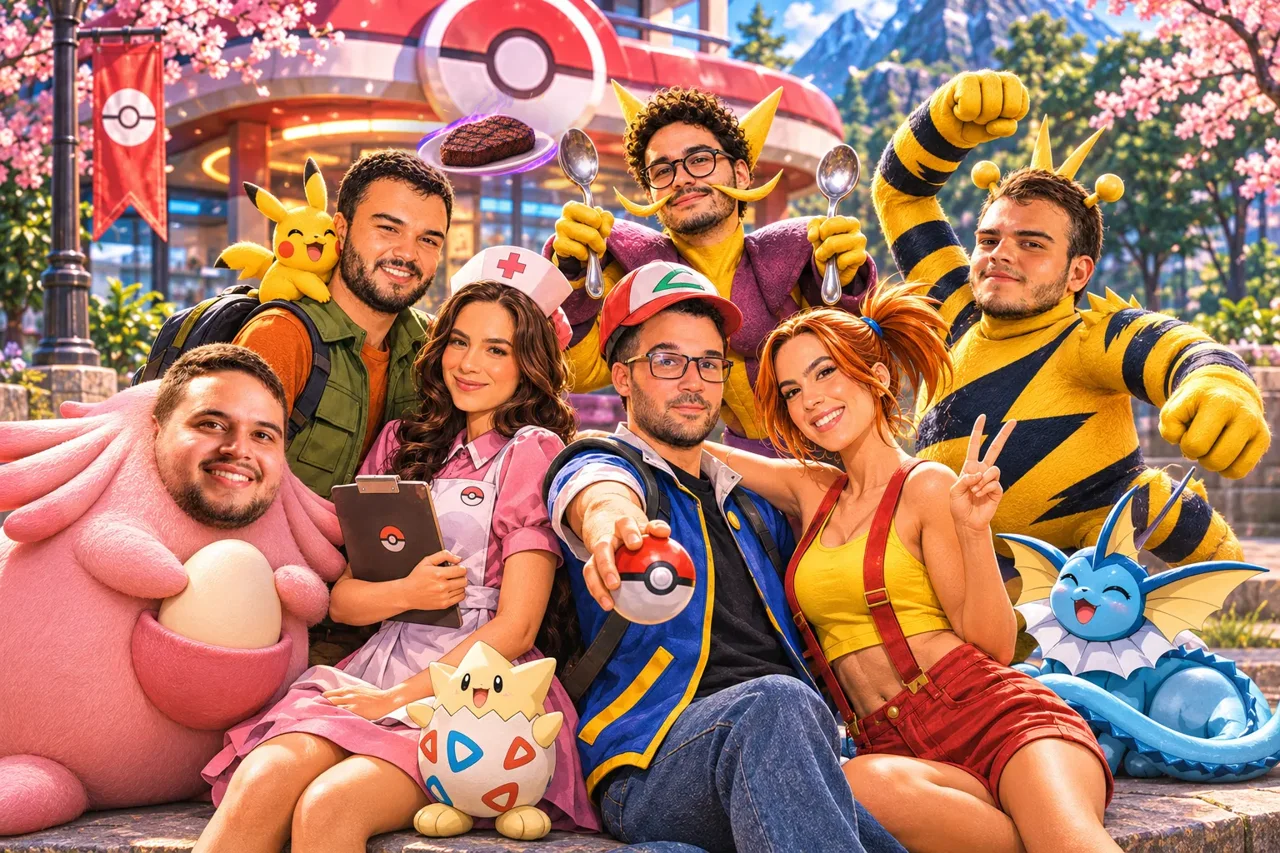
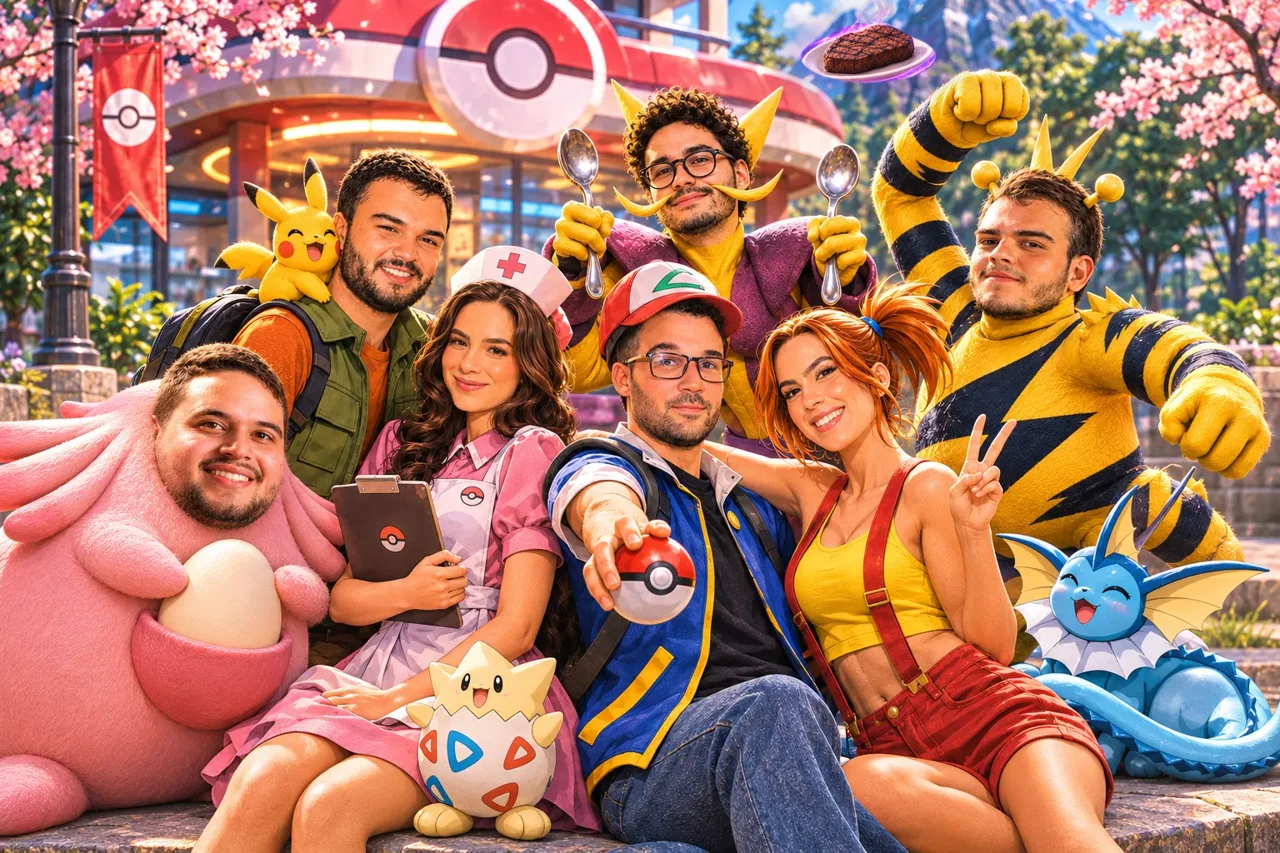
Capa dos primos: prato de bife no lugar que o Felipe marcou

Changed region(s): [[0.5938, 0.0, 0.75, 0.1219], [0.3125, 0.0914, 0.4375, 0.2134]]

diff --git a/teste/primos/index.html b/teste/primos/index.html
@@ -6,7 +6,7 @@
 <meta property="og:type" content="website">
 <meta property="og:title" content="Poke Impact · Primos">
 <meta property="og:description" content="Crie sua conta e entre na arena! Empurre os amigos para a névoa e seja o último em pé.">
-<meta property="og:image" content="https://pokeimpact.github.io/teste/img/og-primos.jpg?v=1795212754">
+<meta property="og:image" content="https://pokeimpact.github.io/teste/img/og-primos.jpg?v=1795212954">
 <meta property="og:image:width" content="1200"><meta property="og:image:height" content="630">
 <meta property="og:url" content="https://pokeimpact.github.io/teste/primos/">
 <meta name="twitter:card" content="summary_large_image">

diff --git a/primos/index.html b/primos/index.html
@@ -6,7 +6,7 @@
 <meta property="og:type" content="website">
 <meta property="og:title" content="Poke Impact · Primos">
 <meta property="og:description" content="Crie sua conta e entre na arena! Empurre os amigos para a névoa e seja o último em pé.">
-<meta property="og:image" content="https://pokeimpact.github.io/img/og-primos.jpg?v=1795212754">
+<meta property="og:image" content="https://pokeimpact.github.io/img/og-primos.jpg?v=1795212954">
 <meta property="og:image:width" content="1200"><meta property="og:image:height" content="630">
 <meta property="og:url" content="https://pokeimpact.github.io/primos/">
 <meta name="twitter:card" content="summary_large_image">
